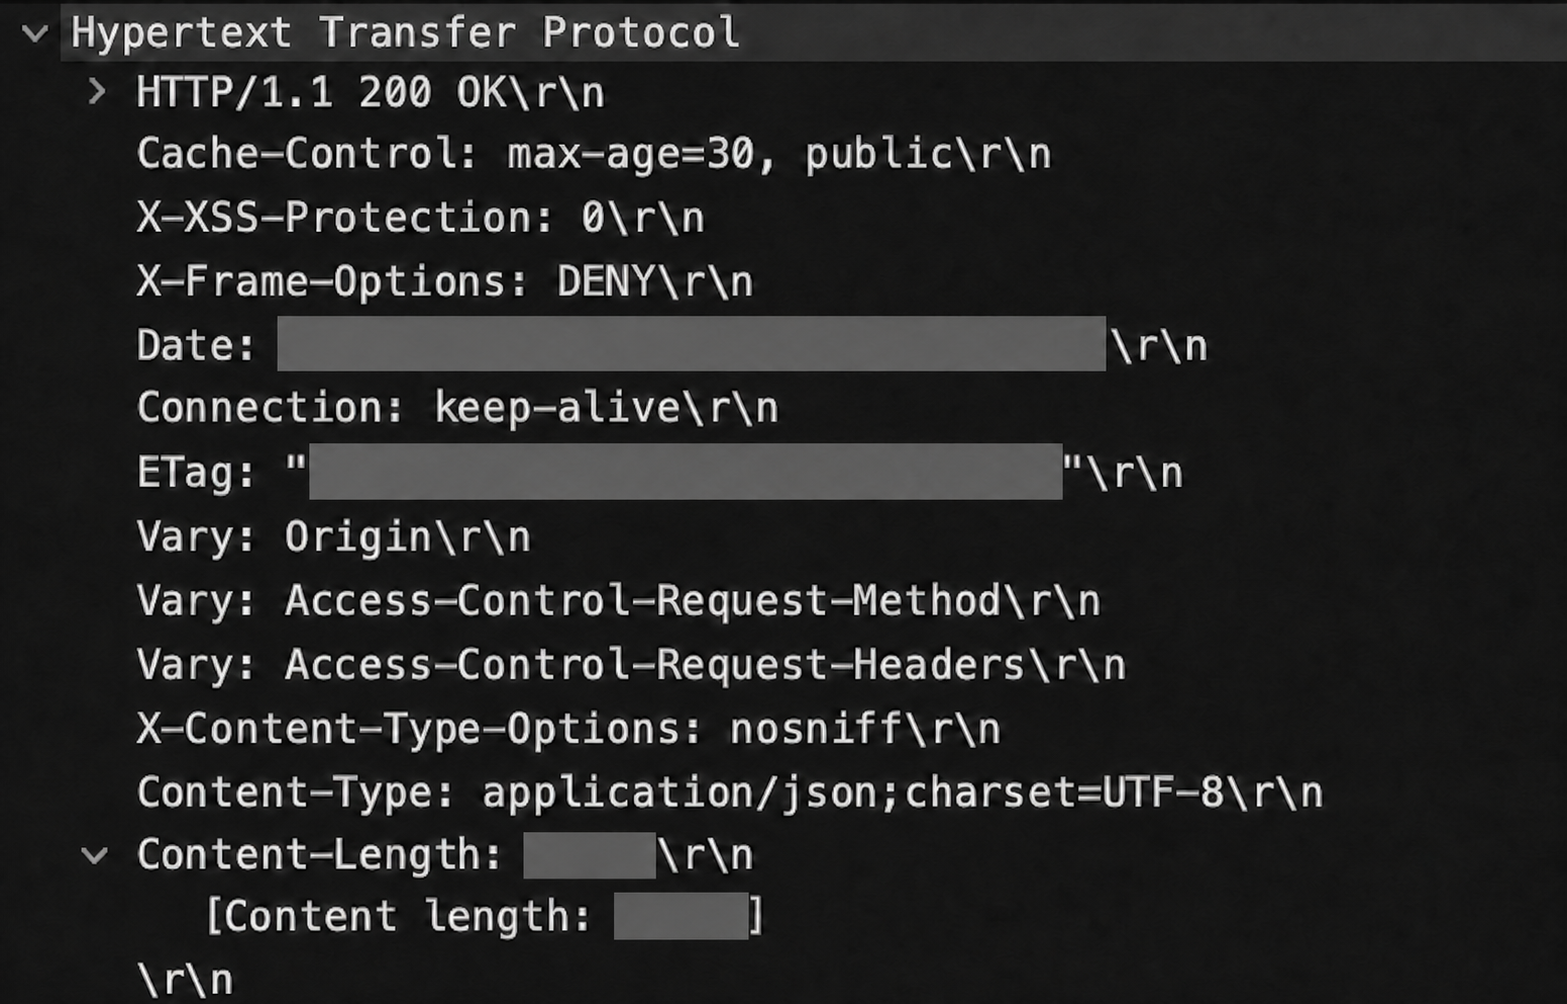
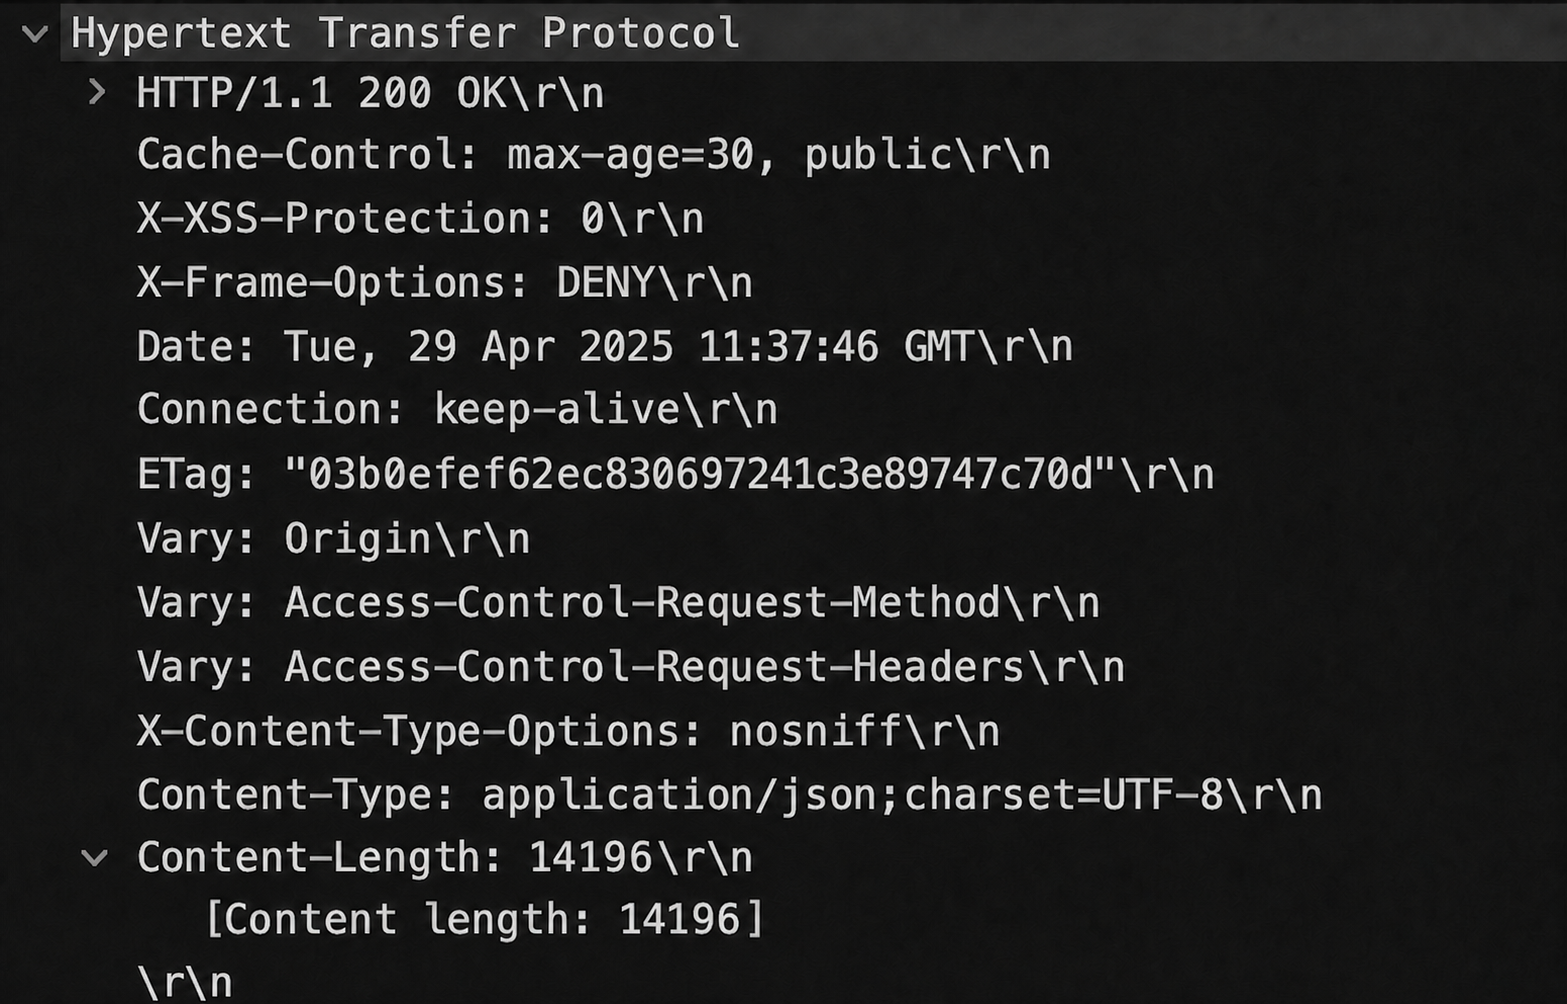
edit: HTTP 캐시 재검증 글의 ETag 증적 이미지 복원

diff --git a/src/content/posts/http-cache-revalidation.md b/src/content/posts/http-cache-revalidation.md
@@ -4,6 +4,7 @@ slug: "http-cache-revalidation"
 description: "max-age 이후 ETag와 If-None-Match로 캐시를 재검증하는 흐름과 Spring·URLSession에서 304가 다르게 보이는 이유를 다룬다."
 kind: "tech"
 publishedAt: "2025-05-03"
+updatedAt: "2026-07-23"
 draft: false
 deprecated: false
 outdated: false
@@ -113,13 +114,13 @@ MacBook에서 Spring 서버를 로컬로 실행하고, 같은 Wi-Fi에 연결한
 
 이 수치는 특정 응답을 한 차례 측정한 결과다. 모든 API에서 같은 비율로 줄어든다는 뜻은 아니다.
 
-![Wireshark에서 확인한 HTTP 200 응답 헤더. Content-Length가 포함되어 있다.](/assets/img/posts/etag-304-study-200.png)
+![Wireshark에서 확인한 HTTP 200 응답 헤더. ETag와 Content-Length 14196이 포함되어 있다.](/assets/img/posts/etag-304-study-200.png)
 
-*200 응답 캡처. 날짜·ETag·본문 크기는 가렸으며, `Content-Length` 헤더가 포함되어 있다.*
+*200 응답 캡처. ETag와 `Content-Length: 14196`을 확인할 수 있다.*
 
-![Wireshark에서 확인한 HTTP 304 응답 헤더. 캡처 당시 Content-Length가 없었다.](/assets/img/posts/etag-304-study-304.png)
+![Wireshark에서 확인한 HTTP 304 응답 헤더. 200 응답과 같은 ETag가 있고 Content-Length는 없다.](/assets/img/posts/etag-304-study-304.png)
 
-*304 응답 캡처. 같은 ETag의 실제 값과 날짜는 가렸으며, 이 캡처에는 `Content-Length`가 없었다.*
+*304 응답 캡처. 200 응답과 같은 ETag가 있고, `Content-Length`는 없다.*
 
 요청의 `If-None-Match`와 두 응답의 ETag가 같다는 것, 그리고 실제 네트워크 응답이 304라는 것을 함께 확인했다. RFC상 304에는 응답 본문이 없다. 다만 304에 `Content-Length` 헤더가 반드시 없어야 하는 것은 아니다. 이번 캡처에서 없었다는 관측과 HTTP 규칙은 구분해야 한다.
 